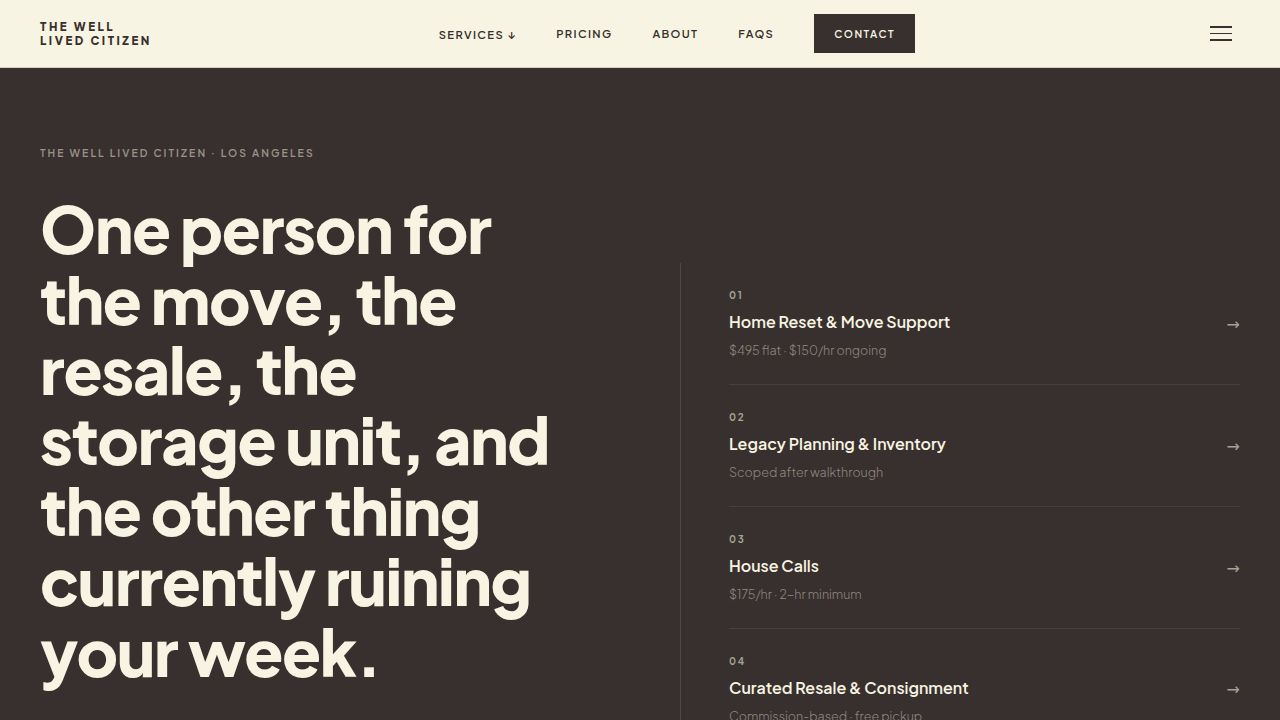
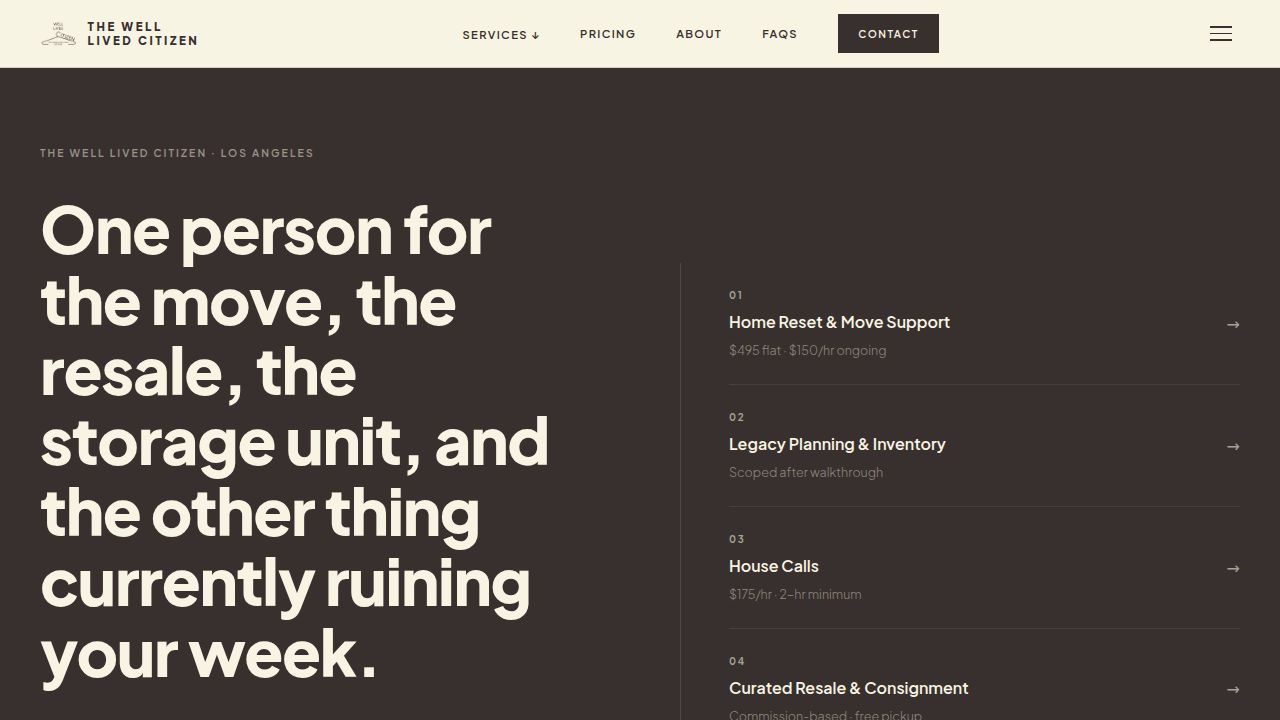
Task: Build the WLC site into a working preview Dayna can see
The site was already scaffolded at artifacts/wlc-site (previously migrated
from site-build/wlc-launch by an earlier task per memory note). The artifact
was registered but had no running workflow — Dayna could not see it.

Actions taken:
1. Started the `artifacts/wlc-site: web` workflow via restart_workflow
2. Confirmed the Vite dev server reads PORT env var, binds to 0.0.0.0,
   and sets allowedHosts: true — fully compatible with Replit preview proxy
3. Synced two pages that had drifted from site-build/wlc-launch:
   - FAQ.tsx: removed "independent older adults" → "people" in House Calls FAQ
     (violates WLC demographic language rules per brand vault)
   - HouseCalls.tsx: same fix on the same question in the page-level FAQ
4. Verified the following routes render correctly via screenshot:
   / (home), /about, /services, /pricing
   Nav active states, footer, and page-to-page links all functional

All routes defined in App.tsx and confirmed reachable:
  /, /about, /services, /pricing, /faq, /contact,
  /the-reset, /house-calls, /fast-bag-fill,
  /home-reset-move-support, /legacy-planning, /legacy-inventory,
  /house-calls-pillar, /curated-resale-consignment, /curated-resale

No structural changes — artifact, vite config, routing, and package.json
were already correct. Only workflow start + two brand-compliance copy fixes.

Replit-Task-Id: 3b018b8f-88fc-4371-ae48-fef1d033b922

Changed region(s): [[0.4375, 0.0, 0.75, 0.0917], [0.0312, 0.0306, 0.1562, 0.0611], [0.3438, 0.0306, 0.4062, 0.0611]]

diff --git a/artifacts/wlc-site/src/pages/FAQ.tsx b/artifacts/wlc-site/src/pages/FAQ.tsx
@@ -46,7 +46,7 @@ const faqSections = [
     items: [
       { q: "What's the difference between a House Call and The Reset?", a: "The Reset is a focused session for a single space or problem area. House Calls are flexible, hourly sessions for the broader running-the-household stuff — technology, home safety, errands, vendor coordination, transitions, and whatever else needs attention. House Calls have a 2-hour minimum." },
       { q: "Can I book recurring House Calls?", a: "Yes. Monthly retainer packages are available for clients who want consistent, scheduled support. These are priced individually based on frequency and scope. Ask about them during your call." },
-      { q: "Do you work with older adults?", a: "Yes. I work with independent older adults who want support maintaining their homes and their autonomy. The pace is set by the person, not me — and the goal is always to make the operational parts easier without getting in the way of how they already live." },
+      { q: "Do you work with older adults?", a: "Yes. I work with people who want support maintaining their homes and their autonomy. The pace is set by the person, not me — and the goal is always to make the operational parts easier without getting in the way of how they already live." },
     ]
   },
   {

diff --git a/artifacts/wlc-site/src/pages/HouseCalls.tsx b/artifacts/wlc-site/src/pages/HouseCalls.tsx
@@ -176,7 +176,7 @@ export default function HouseCalls() {
             {[
               { q: "What's the difference between a House Call and The Reset?", a: "The Reset is a focused session for a single space. House Calls are flexible, hourly sessions for the broader running-the-household stuff — technology, home safety, errands, vendor coordination, transitions. House Calls have a 2-hour minimum." },
               { q: "Can I book recurring House Calls?", a: "Yes. Monthly retainer packages are available for clients who want consistent, scheduled support. These are priced individually based on frequency and scope. Ask about them during your call." },
-              { q: "Do you work with older adults?", a: "Yes. I work with independent older adults who want support maintaining their homes and their autonomy. The pace is set by the person, not me — and the goal is always to make the operational parts easier without getting in the way of how they already live." },
+              { q: "Do you work with older adults?", a: "Yes. I work with people who want support maintaining their homes and their autonomy. The pace is set by the person, not me — and the goal is always to make the operational parts easier without getting in the way of how they already live." },
               { q: "What if the task takes less than 2 hours?", a: "The 2-hour minimum is the booking unit. If I finish early, I'll use the remaining time on whatever else would be useful — a quick tech check, a donation sort, whatever makes sense." },
               { q: "What kinds of tech issues can you handle?", a: "Phone setup and transfers, Wi-Fi troubleshooting, smart home devices, TV and streaming setup, password organization, and navigating telecom billing issues. If it's a home tech problem, I can usually get in the weeds and resolve it." },
             ].map((item, i) => (